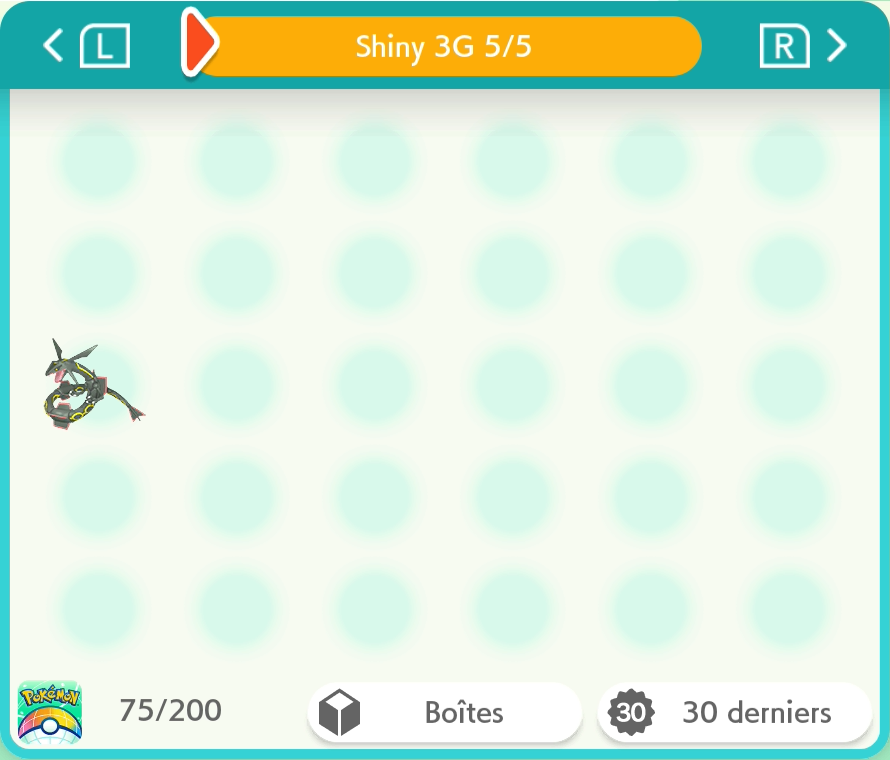
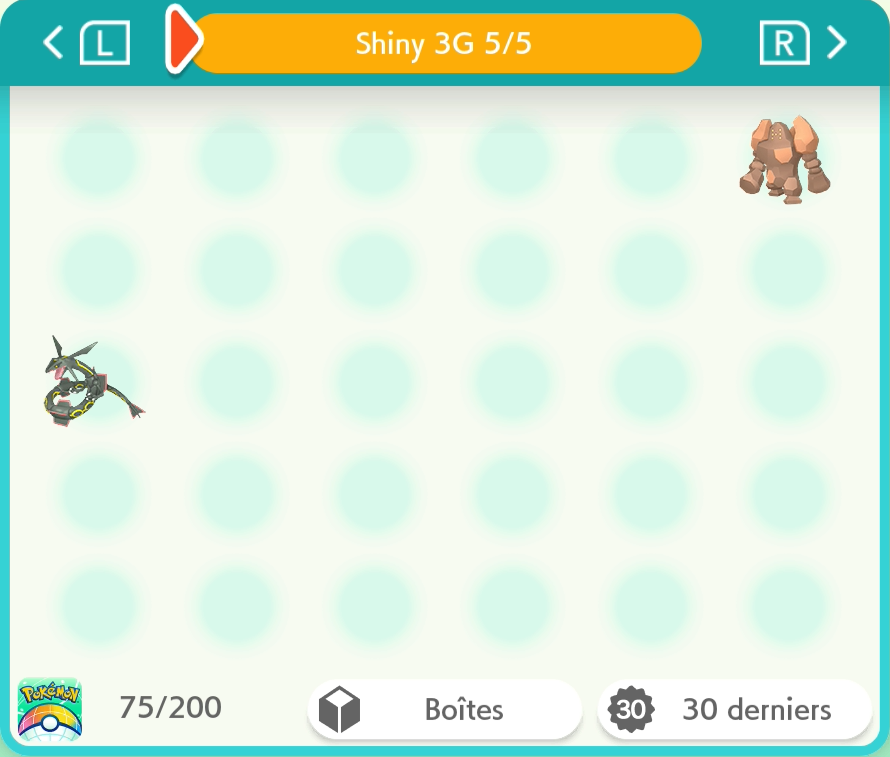
3G : Régirock

diff --git a/README.md b/README.md
@@ -2,14 +2,14 @@
 
 Pokémon-Elément-Sh -> <a href="https://www.pokemon-element-sh.fr/profil/karyno21" target="_blank">Karyno21</a>
 
-↓ Dernière Update le 28/09/2026 à 23h38 ↓
-### Dex 1-9G [282/1001] +21
+↓ Dernière Update le 04/10/2026 à 19h28 ↓
+### Dex 1-9G [283/1001] +22
 
 | Gen | Prog | Notes |
 |:--:|:--:|---|
 |1G|48/151|+4 Artikodin, Électhor, Sulfura & Ptéra|
 |2G|38/100|+6 Celebi, Raikou, Entei, Suicune, Lugia & Ho-Oh|
-|3G|22/135|+1 Spinda|
+|3G|23/135|+2 Spinda & Régirock|
 |4G|20/107||
 |5G|29/155|+1 Genesect (JP Event)|
 |6G|27/71|+5 Amagara, Dragmara, Ptyranidur, Volcanion (HOME) & Diancie (JP Event)|
